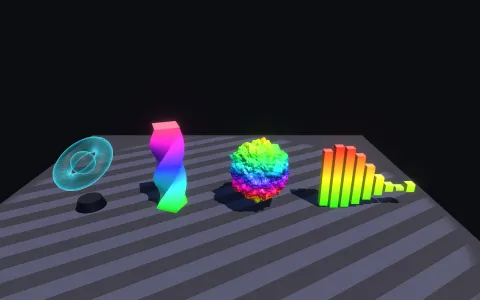
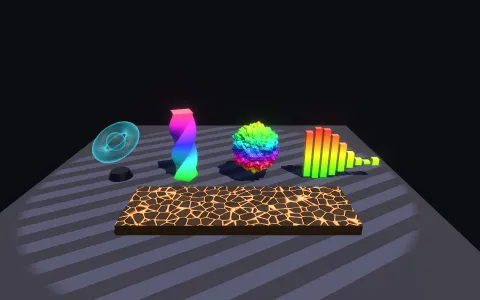
voronoi noise and normal helper added to shader hooks and demo

diff --git a/demos/shader-hooks-2.js b/demos/shader-hooks-2.js
@@ -5,8 +5,11 @@ import { Box3, DirectionalLight, HemisphereLight, InstancedMesh, Mesh, View, box
 // its height (rotate2, its normals turned too) in a hue that climbs it (hsv2rgb), a blob of simplex
 // fbm in a cosine palette whose noise turns in 3D (rotate3, palette - lit by flatShading, the
 // screen's slope, since its normals don't move), bars rising and falling from one sine, each its
-// index's phase (remap, saturate), and a floor whose stripes spin (rotate2 on the uvs, srgb for
-// colours as picked). Everything reads uTime: no frame loop. Click a piece to see its hooks.
+// index's phase (remap, saturate), a floor whose stripes spin (rotate2 on the uvs, srgb for colours
+// as picked), and a slab of lava: cellular noise (voronoi) in 3D, its third axis time, so the crust
+// breaks into plates that drift and re-form, raised by the same cells, glowing in the cracks between
+// them (F2 - F1, the distance to the cell edge). Everything reads uTime: no frame loop. Click a
+// piece to see its hooks.
 
 const HOLOGRAM = {
   uniforms: { uGlow: 2.2 },
@@ -46,6 +49,26 @@ local.y = (local.y + 0.5) * h - 0.5;`,
   // green to amber to red with height, as a meter
   fragment: `float t = saturate(remap(vWorldPosition.y, 0.0, 2.6, 0.0, 1.0));
 base.rgb = hsv2rgb(0.33 - t * 0.33, 0.85, 1.0);`,
+}
+const LAVA = {
+  uniforms: { uCells: 7, uFlow: 0.18, uRelief: 0.25 },
+  // crust plates raised a little by the cells, sloping gently down to the cracks - the crisp bevel is
+  // the fragment hook's, lit per pixel, as a steep slope here would step with the mesh's resolution
+  vertex: `vec3 v = voronoi(vec3(uv * vec2(uCells * 3.0, uCells), uTime * uFlow));
+local.y += smoothstep(0.0, 0.4, v.y - v.x) * 0.035;`,
+  // the plates' bevel lit per pixel: their height, and its slope from two more samples a hair away,
+  // bend the normal - smooth edges at any mesh resolution. Dark crust, each plate its own shade,
+  // molten where it cracks, the glow breathing
+  fragment: `vec2 q = vUv * vec2(uCells * 3.0, uCells);
+float t = uTime * uFlow, e = 0.01;
+vec3 v = voronoi(vec3(q, t));
+vec3 vu = voronoi(vec3(q + vec2(e, 0.0), t)), vv = voronoi(vec3(q + vec2(0.0, e), t));
+float h = smoothstep(0.0, 0.2, v.y - v.x);
+vec2 slope = vec2(smoothstep(0.0, 0.2, vu.y - vu.x) - h, smoothstep(0.0, 0.2, vv.y - vv.x) - h) / e;
+normal = normalize(normal - vec3(slope.x, 0.0, slope.y) * uRelief);
+float crack = 1.0 - smoothstep(0.0, 0.12, v.y - v.x);
+base.rgb = srgb(vec3(0.16, 0.12, 0.11)) * (0.5 + 0.9 * v.z);
+emissive += mix(vec3(1.0, 0.08, 0.0), vec3(1.0, 0.55, 0.05), crack) * crack * (3.0 + sin(uTime * 2.0 + v.z * 6.28));`,
 }
 const FLOOR = {
   uniforms: { uSpin: 0.25 },
@@ -96,8 +119,15 @@ export default function run({ canvas, gui }) {
   }))
   for (let i = 0; i < 9; i++) bars.setInstance(i, { position: [4.2 + i * 0.42, 1.3, 0] })
 
+  // a slab of lava along the front, its top one plane that its hooks crack and raise
+  const lava = scene.add(new Mesh({
+    name: 'lava', geometry: plane({ width: 9, depth: 3, segments: 200 }), position: [0.8, 0.42, 3.4],
+    material: { roughness: 0.75, shader: { ...LAVA, bounds: 0.1 } }, receiveShadow: true,
+  }))
+  scene.add(new Mesh({ geometry: box({ width: 9, height: 0.4, depth: 3 }), position: [0.8, 0.2, 3.4], material: { color: '#1d1714', roughness: 0.9 }, castShadow: true, receiveShadow: true, pickable: false }))
+
   // ---- the hooks of the piece picked, shown bottom left - the pieces run off to the right
-  const pieces = { hologram, twister, blob, bars, floor }
+  const pieces = { hologram, twister, blob, bars, lava, floor }
   const panel = document.createElement('div')
   panel.className = 'code-panel'
   Object.assign(panel.style, { bottom: '16px', maxWidth: 'min(460px, calc(100vw - 32px))', maxHeight: '40vh', overflow: 'auto' })
@@ -126,9 +156,11 @@ export default function run({ canvas, gui }) {
   f.add(twister.material.shader.uniforms, 'uTwist', 0, 3, 0.05).name('twist')
   f.add(blob.material.shader.uniforms, 'uSwell', 0, 1.2, 0.05).name('blob swell')
   f.add(bars.material.shader.uniforms, 'uSpeed', 0, 5, 0.1).name('meter speed')
+  f.add(lava.material.shader.uniforms, 'uCells', 2, 14, 0.5).name('lava cells')
+  f.add(lava.material.shader.uniforms, 'uFlow', 0, 1, 0.02).name('lava flow')
   f.add(floor.material.shader.uniforms, 'uSpin', -1, 1, 0.05).name('floor spin')
   show('hologram')
 
-  view.frame(new Box3([-6.4, 0, -1.4], [8.1, 3.6, 1.4]), { padding: 0.08 })
+  view.frame(new Box3([-6.4, 0, -1.4], [8.1, 3.6, 4.9]), { padding: 0.08 })
   return view.start()
 }

diff --git a/src/webgl/shaders.js b/src/webgl/shaders.js
@@ -141,6 +141,7 @@ void main() {
   {
     vec4 base = vec4(vColor, 1.0);
     vec3 emissive = vec3(0.0);
+    vec3 normal = normalize(vNormal);
 //@hook fragment
     if (base.a <= 0.0) discard;
   }
@@ -771,6 +772,16 @@ void main() {
   emissive *= uEmissiveMapTexel.rgb;
 #endif
 #ifdef HOOK_FRAGMENT
+  // the shading normal in world space, facing the viewer - a fragment hook can bend it, for relief
+  // lit per pixel (bumps from noise) whatever the mesh's resolution
+#ifdef FLAT_SHADING
+  vec3 normal = normalize(cross(dFdx(vWorldPosition), dFdy(vWorldPosition)));
+#else
+  vec3 normal = normalize(vNormal);
+#ifdef DOUBLE_SIDED
+  if (!gl_FrontFacing) normal = -normal;
+#endif
+#endif
   {
 //@hook fragment
   }
@@ -783,13 +794,16 @@ void main() {
   float coverage = base.a;
 
 #ifdef LIT
-#ifdef FLAT_SHADING
+#ifdef HOOK_FRAGMENT
+  // the fragment hook's normal, facing the viewer already
+  vec3 n = normalize(normal);
+#elif defined(FLAT_SHADING)
   // from the screen-space slope: it faces the camera whichever side of the face is seen
   vec3 n = normalize(cross(dFdx(vWorldPosition), dFdy(vWorldPosition)));
 #else
   vec3 n = normalize(vNormal);
 #endif
-#if defined(DOUBLE_SIDED) && !defined(FLAT_SHADING)
+#if defined(DOUBLE_SIDED) && !defined(FLAT_SHADING) && !defined(HOOK_FRAGMENT)
   if (!gl_FrontFacing) n = -n;
 #endif
   vec3 surfaceNormal = n;
@@ -1361,6 +1375,8 @@ const SOURCES = {
 //   default; snoised(p) also gives its gradient, for normals
 // - vfbm / sfbm (p[, octaves]): octaves of either added up, each turned and scaled by 2.03 so their
 //   grids never line up; sfbmd adds the gradient. Five octaves unless told; 1-12
+// - voronoi(p): cellular (Worley) noise - a random point in every unit cell; returns the distance to
+//   the nearest (F1) and the second nearest (F2), in cells, and a random 0-1 for the nearest's cell
 // And the everyday ones people (and agents) reach for: srgb() to turn a colour as picked into the
 // linear one hooks work in, hsv2rgb() and palette() (Quilez's cosine palette) - both giving linear
 // colour - fresnel() for rim light, rotate2() / rotate3() matrices, remap() and saturate().
@@ -1517,6 +1533,43 @@ float sfbm(vec2 p) { return sfbm(p, 5); }
 float sfbm(vec3 p) { return sfbm(p, 5); }
 vec3 sfbmd(vec2 p) { return sfbmd(p, 5); }
 vec4 sfbmd(vec3 p) { return sfbmd(p, 5); }
+
+// cellular noise: each unit cell's own point, from its hash; the nearest and second nearest of the
+// 3 x 3 (or 3 x 3 x 3) cells round p - F1, F2 - and the nearest cell's own random number
+vec3 voronoi(vec2 p) {
+  vec2 i = floor(p), f = p - i;
+  highp ivec2 c = ivec2(i);
+  float f1 = 8.0, f2 = 8.0, id = 0.0;
+  for (int y = -1; y <= 1; y++) {
+    for (int x = -1; x <= 1; x++) {
+      highp uint h = phoriaCell(ivec3(c + ivec2(x, y), 11));
+      vec2 o = vec2(float(x), float(y)) + vec2(phoriaUnit(h), phoriaUnit(phoriaMix(h ^ 0x68e31da4u))) - f;
+      float d = dot(o, o);
+      if (d < f1) { f2 = f1; f1 = d; id = phoriaUnit(phoriaMix(h + 0x1b56c4e9u)); }
+      else if (d < f2) f2 = d;
+    }
+  }
+  return vec3(sqrt(f1), sqrt(f2), id);
+}
+vec3 voronoi(vec3 p) {
+  vec3 i = floor(p), f = p - i;
+  highp ivec3 c = ivec3(i);
+  float f1 = 8.0, f2 = 8.0, id = 0.0;
+  for (int z = -1; z <= 1; z++) {
+    for (int y = -1; y <= 1; y++) {
+      for (int x = -1; x <= 1; x++) {
+        highp uint h = phoriaCell(c + ivec3(x, y, z)) ^ 0x2545f491u;
+        h = phoriaMix(h);
+        vec3 o = vec3(float(x), float(y), float(z)) - f
+          + vec3(phoriaUnit(h), phoriaUnit(phoriaMix(h ^ 0x68e31da4u)), phoriaUnit(phoriaMix(h ^ 0xb5297a4du)));
+        float d = dot(o, o);
+        if (d < f1) { f2 = f1; f1 = d; id = phoriaUnit(phoriaMix(h + 0x1b56c4e9u)); }
+        else if (d < f2) f2 = d;
+      }
+    }
+  }
+  return vec3(sqrt(f1), sqrt(f2), id);
+}
 
 // a colour as picked (sRGB) to the linear colour hooks work in
 vec3 srgb(vec3 c) { return mix(c / 12.92, pow((c + 0.055) / 1.055, vec3(2.4)), step(vec3(0.04045), c)); }

diff --git a/test/shader-hooks.test.js b/test/shader-hooks.test.js
@@ -5,7 +5,7 @@ import { afterEach, describe, expect, it, vi } from 'vitest'
 import { Color, DirectionalLight, Geometry, Lines, Material, Mesh, PerspectiveCamera, Points, Scene, Texture, WebGLRenderer, box, plane } from '../src/index.js'
 import { collect } from '../src/frame.js'
 import { ChangeWatch } from '../src/watch.js'
-import { HOOK_HELPERS, shaderSource } from '../src/webgl/shaders.js'
+import { CLIP_ONLY_FRAGMENT, HOOK_HELPERS, MESH_VERTEX, shaderSource } from '../src/webgl/shaders.js'
 import { hookFor } from '../src/webgl/hooks.js'
 import { fakeCanvas, fakeGL } from './fakes.js'
 
@@ -80,7 +80,7 @@ describe('splicing hooks into the shaders', () => {
     for (const s of [vs, fs]) {
       for (const fn of ['float hash(float x)', 'float hash(vec3 p)', 'float vnoise(vec2 p)', 'float vnoise(vec3 p)', 'float snoise(vec2 p)', 'vec4 snoised(vec3 p)',
         'float vfbm(vec2 p, int octaves)', 'float sfbm(vec3 p, int octaves)', 'vec3 sfbmd(vec2 p, int octaves)', 'float sfbm(vec2 p) {',
-        'vec3 srgb(vec3 c)', 'vec3 hsv2rgb(vec3 hsv)', 'vec3 palette(float t, vec3 a, vec3 b, vec3 c, vec3 d)', 'float fresnel(vec3 normal, vec3 position, float power)',
+        'vec3 voronoi(vec2 p)', 'vec3 voronoi(vec3 p)', 'vec3 srgb(vec3 c)', 'vec3 hsv2rgb(vec3 hsv)', 'vec3 palette(float t, vec3 a, vec3 b, vec3 c, vec3 d)', 'float fresnel(vec3 normal, vec3 position, float power)',
         'mat2 rotate2(float a)', 'mat3 rotate3(vec3 axis, float a)', 'float remap(float x, float a, float b, float c, float d)', 'vec4 saturate(vec4 x)']) expect(s).toContain(fn)
     }
     // built from integer bit-mixing, which GLSL ES 3.00 defines exactly - never fract(sin())
@@ -93,6 +93,17 @@ describe('splicing hooks into the shaders', () => {
     const [vs] = shaderSource('mesh', [])
     expect(vs).not.toContain('#line')
     expect(vs).toContain('//@hook vertex')
+  })
+
+  it("gives a mesh's fragment hook the shading normal to bend - in the colour pass, and in its shadow and pick", () => {
+    const [, colour] = shaderSource('mesh', ['HOOK_FRAGMENT', 'LIT'], source)
+    // declared before the hook, and the light reads it after
+    expect(colour.indexOf('vec3 normal = normalize(vNormal);')).toBeGreaterThan(0)
+    expect(colour.indexOf('vec3 normal = normalize(vNormal);')).toBeLessThan(colour.indexOf('#line 1 102'))
+    expect(colour).toContain('vec3 n = normalize(normal);')
+    // the depth pass runs the same code for its discards: it has a normal to read too
+    const [, depth] = shaderSource(/** @type {any} */ ([MESH_VERTEX, CLIP_ONLY_FRAGMENT]), ['HOOK_FRAGMENT'], source)
+    expect(depth).toContain('vec3 normal = normalize(vNormal);')
   })
 
   it('splices a points and a lines hook too - the lines one a function run on each end', () => {

diff --git a/src/material/Material.js b/src/material/Material.js
@@ -19,7 +19,8 @@ import { Texture } from './Texture.js'
  * and the uniforms given, and call - p a vec2 or vec3, every result 0-1 - `hash(x)` (the same on every
  * GPU for the same bits), `vnoise(p)` (value noise), `snoise(p)` (simplex noise; `snoised(p)` with its
  * gradient), and `vfbm(p)` / `sfbm(p)` / `sfbmd(p)` (octaves of either, five unless given:
- * `sfbm(p, 8)`); and `srgb(c)` (a colour as picked to linear), `hsv2rgb`, `palette` (cosine
+ * `sfbm(p, 8)`), `voronoi(p)` (cellular noise: vec3 of the nearest and second nearest distances and
+ * a random 0-1 for the nearest cell); and `srgb(c)` (a colour as picked to linear), `hsv2rgb`, `palette` (cosine
  * palettes, linear), `fresnel(normal, position, power)` (rim light - `cameraPosition` is there too),
  * `rotate2(a)` / `rotate3(axis, a)` matrices, `remap` and `saturate`.
  * @typedef {object} ShaderHooks
@@ -28,7 +29,8 @@ import { Texture } from './Texture.js'
  *   instance, point or segment), `size` (points: change it too) and `along` (lines: 0 at a
  *   segment's start, 1 at its end)
  * @property {string} [fragment] runs on each pixel before lighting: change `base` (vec4: linear
- *   colour and alpha) and, on meshes, `emissive`; `discard` cuts the pixel away - shadows and
+ *   colour and alpha) and, on meshes, `emissive` and `normal` (the shading normal, world space - bend it for
+ *   relief lit per pixel); `discard` cuts the pixel away - shadows and
  *   picking too. Reads `vUv`, `vWorldPosition`, `vNormal` (meshes), `pointUv` and `index`
  *   (points), `distance` along the line and `index` the segment (lines)
  * @property {string} [lit] runs after lighting: change `color` (vec3, linear) and `base.a` - glows,
@@ -135,7 +137,7 @@ const OPTIONS = ['name', ...Object.keys(COLORS), ...MAPS, ...FLAGS, ...Object.ke
 const HOOKS = ['vertex', 'fragment', 'lit', 'uniforms', 'bounds']
 // names the shader keeps for itself
 // the functions hooks can call
-const HELPERS = ['hash', 'vnoise', 'snoise', 'snoised', 'vfbm', 'sfbm', 'sfbmd', 'srgb', 'hsv2rgb', 'palette', 'fresnel', 'rotate2', 'rotate3', 'remap', 'saturate']
+const HELPERS = ['hash', 'vnoise', 'snoise', 'snoised', 'vfbm', 'sfbm', 'sfbmd', 'voronoi', 'srgb', 'hsv2rgb', 'palette', 'fresnel', 'rotate2', 'rotate3', 'remap', 'saturate']
 const RESERVED = new RegExp(`^(gl_|phoria)|^(uTime|cameraPosition|${HELPERS.join('|')})$`)
 
 // what agents (and three.js habits) will reach for

diff --git a/demos/registry.js b/demos/registry.js
@@ -30,11 +30,11 @@ export const DEMOS = [
   { name: 'stylised materials', title: 'matcaps and toon shading - stylised looks' },
   { name: 'lights', title: 'lights in two moods - sunset and neon - and a swinging lamp that carries its spot light' },
   { name: 'debug helpers', title: 'view.debug - lights, shadow cameras, bounds, normals, axis, stats readout', hint: 'Hover a shape for its box and normals · drag to orbit' },
-  { name: 'textures', title: 'photo textures with normal and ARM maps, a live canvas and a video texture, texture filtering' },
   { name: 'colour', title: 'colour - HSL cylinder, RGB cube, light adding and filters multiplying, harmony swatches', hint: '' },
-  { name: 'particles', title: 'particle emitters in three set pieces - a fountain, a brazier and falling snow' },
+  { name: 'textures', title: 'photo textures with normal and ARM maps, a live canvas and a video texture, texture filtering' },
   { name: 'shader hooks', title: 'GLSL of your own inside the material shader - waving flag, rippling water, dissolve effects, hash, noise and fbm functions', hint: 'Click a piece to see its shader hooks · drag to orbit' },
-  { name: 'shader hooks 2', title: 'more shader hook functions - hologram edges, rotations, palette transforms and remapping', hint: 'Click a piece to see its shader hooks · drag to orbit' },
+  { name: 'shader hooks 2', title: 'more shader hook functions - hologram edges, rotations, palette transforms, remapping and cellular-noise lava', hint: 'Click a piece to see its shader hooks · drag to orbit' },
+  { name: 'particles', title: 'particle emitters in three set pieces - a fountain, a brazier and falling snow' },
   { name: 'fog shadows', title: 'a harbour on a foggy night - lamps and a lighthouse beam casting shadows through mist' },
   { name: 'point lights', title: "a jack-o'-lantern - candle inside casting shadows, light escaping through the carved face" },
   { name: 'viewer', title: 'a glTF product viewer - full material maps, baked occlusion, an HDR studio, shadows, animation' },

diff --git a/src/webgl/hooks.js b/src/webgl/hooks.js
@@ -115,7 +115,7 @@ export function hookFailed(material, hook, log) {
     ? own.map((m) => `shader.${names[m[1]]} line ${m[2]}: ${m[3]}`).join('; ')
     : `in phoria2's shader around the hook: ${lines[0]?.[3] ?? log.trim().split('\n')[0]}`
   const uniforms = Object.keys(/** @type {NonNullable<Material['shader']>} */ (material.shader).uniforms)
-  warnOnce(material, `a shader hook doesn't compile - ${where}. Hooks can use ${HOOK_NAMES}, uTime${uniforms.length ? `, ${uniforms.join(', ')}` : ''}, cameraPosition, and call hash, vnoise, snoise, snoised, vfbm, sfbm, sfbmd, srgb, hsv2rgb, palette, fresnel, rotate2, rotate3, remap and saturate. The material is drawn without its hooks`)
+  warnOnce(material, `a shader hook doesn't compile - ${where}. Hooks can use ${HOOK_NAMES}, uTime${uniforms.length ? `, ${uniforms.join(', ')}` : ''}, cameraPosition, and call hash, vnoise, snoise, snoised, vfbm, sfbm, sfbmd, voronoi, srgb, hsv2rgb, palette, fresnel, rotate2, rotate3, remap and saturate. The material is drawn without its hooks`)
 }
 
-const HOOK_NAMES = 'local, n, uv, index, size, along (vertex); base, emissive, vUv, vWorldPosition, vNormal, vColor, pointUv, distance (fragment); color, base (lit)'
+const HOOK_NAMES = 'local, n, uv, index, size, along (vertex); base, emissive, normal, vUv, vWorldPosition, vNormal, vColor, pointUv, distance (fragment); color, base (lit)'

diff --git a/src/webgl/picking.js b/src/webgl/picking.js
@@ -44,6 +44,7 @@ void main() {
   {
     vec4 base = vec4(vColor, 1.0);
     vec3 emissive = vec3(0.0);
+    vec3 normal = normalize(vNormal);
 //@hook fragment
     if (base.a <= 0.0) discard;
   }
